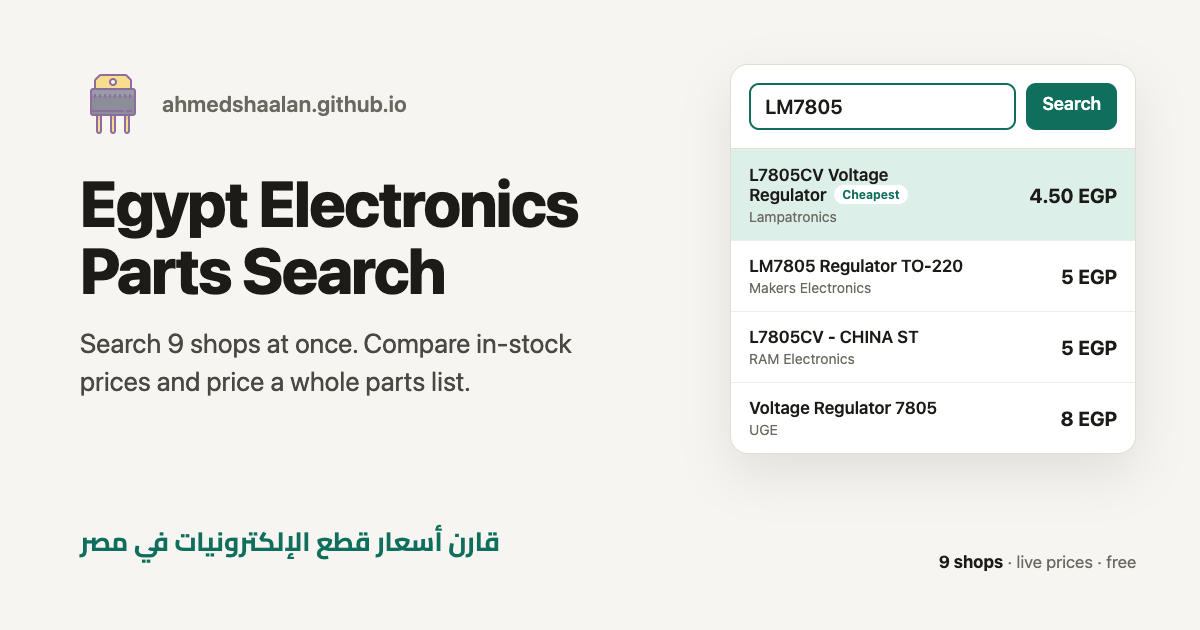
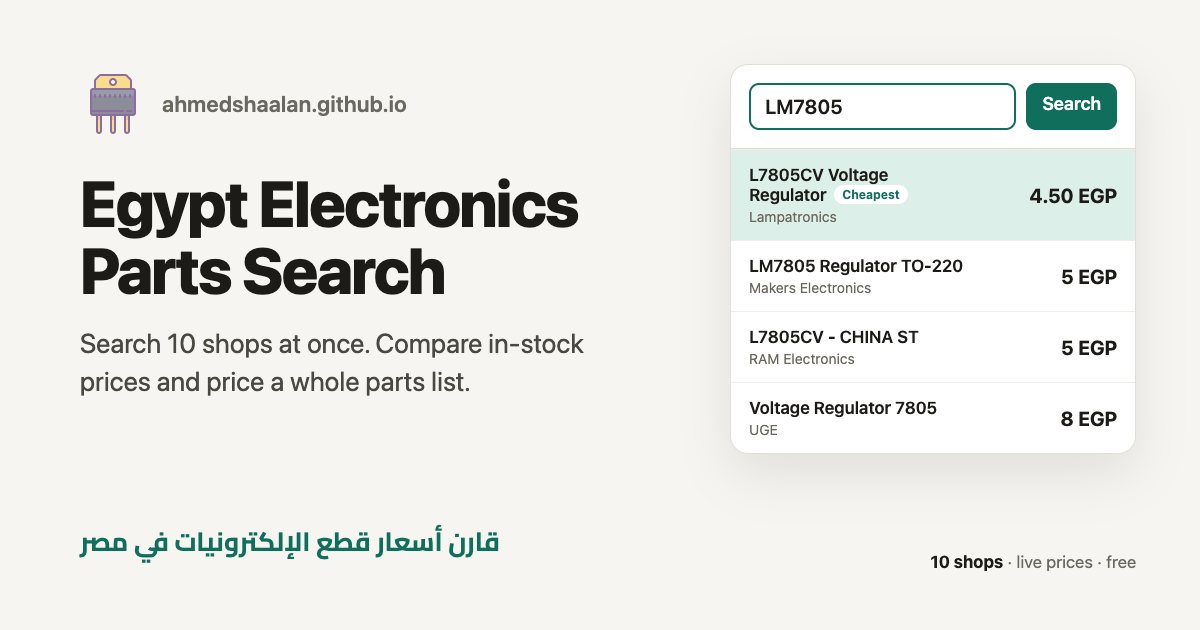
Add El Gammal Electronics, page metadata and Cloudflare Web Analytics
- Add El Gammal Electronics as the 10th shop. Its Supabase storefront
  API allows browsers directly, so it doesn't use the relay; stock
  comes from the shop's get_online_stock function.
- Add a meta description, canonical URL, Open Graph and Twitter card
  tags with a 1200x630 preview image, WebApplication structured data,
  and a short Arabic description on the search page.
- Add cookie-free Cloudflare Web Analytics and a Privacy section in
  the README.

Changed region(s): [[0.1233, 0.5127, 0.4933, 0.573], [0.7708, 0.8746, 0.8017, 0.9048]]

diff --git a/src/index.html b/src/index.html
@@ -5,7 +5,7 @@
 <meta charset="utf-8">
 <meta name="viewport" content="width=device-width, initial-scale=1">
 <title>Egypt Electronics Parts Search · Compare part prices across Egyptian shops</title>
-<meta name="description" content="Search 9 Egyptian electronics shops at once and compare in-stock prices for parts like LM7805 and ESP32. Price a whole parts list. Free, no sign-up.">
+<meta name="description" content="Search 10 Egyptian electronics shops at once and compare in-stock prices for parts like LM7805 and ESP32. Price a whole parts list. Free, no sign-up.">
 <link rel="canonical" href="https://ahmedshaalan.github.io/Egypt-Electronics-Parts-Search/">
 <link rel="icon" type="image/png" href="icon.png">
 <link rel="apple-touch-icon" href="icon.png">
@@ -16,7 +16,7 @@
 <meta property="og:type" content="website">
 <meta property="og:site_name" content="Egypt Electronics Parts Search">
 <meta property="og:title" content="Egypt Electronics Parts Search">
-<meta property="og:description" content="Search 9 Egyptian electronics shops at once and compare in-stock prices for parts like LM7805 and ESP32. Price a whole parts list. Free, no sign-up.">
+<meta property="og:description" content="Search 10 Egyptian electronics shops at once and compare in-stock prices for parts like LM7805 and ESP32. Price a whole parts list. Free, no sign-up.">
 <meta property="og:url" content="https://ahmedshaalan.github.io/Egypt-Electronics-Parts-Search/">
 <meta property="og:image" content="https://ahmedshaalan.github.io/Egypt-Electronics-Parts-Search/og-image.png">
 <meta property="og:image:width" content="1200">
@@ -26,7 +26,7 @@
 <meta property="og:locale:alternate" content="ar_EG">
 <meta name="twitter:card" content="summary_large_image">
 <meta name="twitter:title" content="Egypt Electronics Parts Search">
-<meta name="twitter:description" content="Search 9 Egyptian electronics shops at once and compare in-stock prices for parts like LM7805 and ESP32. Price a whole parts list. Free, no sign-up.">
+<meta name="twitter:description" content="Search 10 Egyptian electronics shops at once and compare in-stock prices for parts like LM7805 and ESP32. Price a whole parts list. Free, no sign-up.">
 <meta name="twitter:image" content="https://ahmedshaalan.github.io/Egypt-Electronics-Parts-Search/og-image.png">
 
 <!-- structured data for search engines -->
@@ -37,7 +37,7 @@
   "name": "Egypt Electronics Parts Search",
   "alternateName": "بحث قطع الإلكترونيات في مصر",
   "url": "https://ahmedshaalan.github.io/Egypt-Electronics-Parts-Search/",
-  "description": "Search 9 Egyptian electronics shops at once and compare in-stock prices for parts like LM7805 and ESP32. Price a whole parts list. Free, no sign-up.",
+  "description": "Search 10 Egyptian electronics shops at once and compare in-stock prices for parts like LM7805 and ESP32. Price a whole parts list. Free, no sign-up.",
   "applicationCategory": "ShoppingApplication",
   "operatingSystem": "Any",
   "browserRequirements": "Requires JavaScript",
@@ -256,7 +256,7 @@
       <button class="btn primary" type="submit">Search</button>
     </form>
     <p class="hint" id="shops-hint">Searches all shops at once. Out-of-stock items are hidden. Saved items stay in this browser.</p>
-    <p class="hint" lang="ar" dir="rtl">ابحث عن قطع الإلكترونيات وقارن أسعارها في ٩ متاجر مصرية مرة واحدة: رام، ميكرز، فيوتشر، UGE وغيرها.</p>
+    <p class="hint" lang="ar" dir="rtl">ابحث عن قطع الإلكترونيات وقارن أسعارها في ١٠ متاجر مصرية مرة واحدة: رام، ميكرز، فيوتشر، الجمل وغيرها.</p>
     <div id="search-out"></div>
   </section>
 
@@ -707,5 +707,7 @@ savedKeys = new Set(saved.items.map(key));
 updateSavedCount(saved.items.length);
 warmUp();
 </script>
+<!-- Cloudflare Web Analytics: page views only, no cookies -->
+<script type="module" src="https://static.cloudflareinsights.com/beacon.min.js" data-cf-beacon='{"token": "682b699925714d4993f77f2d490389f7"}'></script>
 </body>
 </html>

diff --git a/src/js/shops.js b/src/js/shops.js
@@ -339,6 +339,97 @@ class LampatronicsShop extends Shop {
   }
 }
 
+class ElGammalShop extends Shop {
+  // Lovable storefront backed by Supabase. Its database API allows browsers directly (CORS),
+  // using the public "anon" key the storefront itself ships with.
+  platform = "Supabase";
+  static API = "https://lackyfaornknmawcyldv.supabase.co/rest/v1";
+  static ANON_KEY =
+    "eyJhbGciOiJIUzI1NiIsInR5cCI6IkpXVCJ9.eyJpc3MiOiJzdXBhYmFzZSIsInJlZiI6ImxhY2t5ZmFvcm5rbm1hd2N5bGR2Iiwicm9sZSI6ImFub24iLCJpYXQiOjE3NzcwNjQyMDQsImV4cCI6MjA5MjY0MDIwNH0.Vdmae-sT-zW_lTUbKznYKXlRw1rzI7I-8A3toSWdhzY";
+
+  constructor(...args) {
+    super(...args);
+    this.limit = limiter(6);
+    this.stock = new Map();
+  }
+
+  api(path, { method = "GET", body, signal } = {}) {
+    const key = ElGammalShop.ANON_KEY;
+    return fetch(`${ElGammalShop.API}/${path}`, {
+      method,
+      body,
+      signal,
+      headers: { apikey: key, authorization: `Bearer ${key}`, "content-type": "application/json" },
+    });
+  }
+
+  product(d) {
+    return {
+      shop: this.key,
+      ref: d.id,
+      // names start with an internal code ("XX629-ESP32 30Pin ..."), which isn't useful to shoppers
+      name: cleanName(d.name).replace(/^XX\d+\s*-?\s*/i, ""),
+      price: Number(d.user_price || 0),
+      url: `${this.base}/p/${d.slug}`,
+      image: d.image_url || null,
+      in_stock: true,
+      old_price: null,
+    };
+  }
+
+  async onlineStock(id, signal, fresh = false) {
+    const hit = this.stock.get(id);
+    if (hit && !fresh && Date.now() < hit.expires) return hit.quantity;
+    const r = await this.limit(async () =>
+      ok(await this.api("rpc/get_online_stock", { method: "POST", body: JSON.stringify({ _product_id: id }), signal })),
+    );
+    const quantity = Number(await r.json()) || 0;
+    this.stock.set(id, { expires: Date.now() + HOUR, quantity });
+    return quantity;
+  }
+
+  async search(query, signal) {
+    // same filters as the shop's own search page; commas and parentheses would break the filter syntax
+    const q = query.replace(/[,()*]/g, " ").trim();
+    const params = new URLSearchParams({
+      select: "id,name,slug,user_price,image_url",
+      is_active: "eq.true",
+      is_visible: "eq.true",
+      is_online: "eq.true",
+      or: `(name.ilike.*${q}*,barcode.ilike.*${q}*,tags.ilike.*${q}*)`,
+      limit: "200",
+    });
+    const r = await ok(await this.api(`products?${params}`, { signal }));
+    const candidates = (await r.json()).map((d) => this.product(d)).filter((p) => p.price > 0 && score(query, p.name) >= WEAK);
+    const checked = await Promise.all(
+      candidates.map(async (p) => {
+        try {
+          p.in_stock = (await this.onlineStock(p.ref, signal)) > 0;
+          return p;
+        } catch (err) {
+          if (signal?.aborted) throw err;
+          return null;
+        }
+      }),
+    );
+    return checked.filter((p) => p && p.in_stock);
+  }
+
+  async check(ref, signal) {
+    const params = new URLSearchParams({
+      select: "id,name,slug,user_price,image_url",
+      id: `eq.${ref}`,
+      is_active: "eq.true",
+      is_visible: "eq.true",
+      is_online: "eq.true",
+    });
+    const rows = await (await ok(await this.api(`products?${params}`, { signal }))).json();
+    if (!rows.length) return null;
+    const p = this.product(rows[0]);
+    return { price: p.price, in_stock: (await this.onlineStock(ref, signal, true)) > 0 };
+  }
+}
+
 export const SHOPS = [
   new OdooShop("ram", "RAM Electronics", "https://www.ram-e-shop.com"),
   new WooShop("makers", "Makers Electronics", "https://makerselectronics.com"),
@@ -349,5 +440,6 @@ export const SHOPS = [
   new LampatronicsShop("lampatronics", "Lampatronics", "https://lampatronics.com"),
   new WooShop("uge", "UGE", "https://uge-one.com"),
   new WooShop("ampere", "Ampere Electronics", "https://ampere-electronics.com"),
+  new ElGammalShop("elgammal", "El Gammal Electronics", "https://el-gammal.com"),
 ];
 export const SHOPS_BY_KEY = Object.fromEntries(SHOPS.map((s) => [s.key, s]));

diff --git a/README.md b/README.md
@@ -9,7 +9,7 @@ Find a part, see every in-stock price side by side, and price a whole parts list
 
 ### [**→ Open the site**](https://ahmedshaalan.github.io/Egypt-Electronics-Parts-Search/)
 
-`9 shops` · `live prices` · `out-of-stock hidden` · `works on your phone` · `free, no sign-up` · [`AGPL-3.0 license`](LICENSE)
+`10 shops` · `live prices` · `out-of-stock hidden` · `works on your phone` · `free, no sign-up` · [`AGPL-3.0 license`](LICENSE)
 
 <img src=".github/screenshots/search.png" alt="Search results for LM7805 across nine Egyptian shops, sorted by match and price" width="760">
 
@@ -26,7 +26,7 @@ Egypt Electronics Parts Search asks every shop at once, recognizes those names a
 ## Features
 
 **🔍 Search every shop at once**
-- Queries all 9 shops at the same time and merges the results into one list
+- Queries all 10 shops at the same time and merges the results into one list
 - Hides out-of-stock items automatically
 - Shows sale prices next to the original price, and the per-piece price for packs ("(10pcs)")
 - Sort by best match, cheapest, or cheapest per piece, or filter to one shop
@@ -113,15 +113,16 @@ Saved items live in your browser's storage, so they're private to that browser a
 | [Lampatronics](https://lampatronics.com) | Custom (Laravel + Vue) | The site's own product API |
 | [UGE](https://uge-one.com) | WooCommerce | Store API |
 | [Ampere Electronics](https://ampere-electronics.com) | WooCommerce | Store API |
+| [El Gammal Electronics](https://el-gammal.com) | Supabase (Lovable) | The shop's public database API, plus a stock lookup per product |
 
 ## How it works
 
 The whole app runs in your browser. It's a static site on GitHub Pages, with no server of its own.
 
-The catch: browsers only let a website read another site's data if that site allows it (CORS). The two Shopify shops do; the other seven don't. For those, requests go through a tiny **relay** on Cloudflare Workers that fetches the shop's page and hands it back.
+The catch: browsers only let a website read another site's data if that site allows it (CORS). The two Shopify shops and El Gammal do; the other seven don't. For those, requests go through a tiny **relay** on Cloudflare Workers that fetches the shop's page and hands it back.
 
 ```
-                                ┌──────────── direct ────────────► Future, DevBoards  (Shopify, CORS allowed)
+                                ┌──────────── direct ────────────► Future, DevBoards, El Gammal  (CORS allowed)
  GitHub Pages site ─────────────┤
  (all search logic, in JS)      └─► Cloudflare Worker relay ─────► RAM, Makers, Micro Ohm, Most,
                                     (allow-listed shops only,      UGE, Ampere, Lampatronics
@@ -138,7 +139,7 @@ The catch: browsers only let a website read another site's data if that site all
 
 [`worker/src/index.js`](worker/src/index.js) is about 100 lines and deliberately dumb: all parsing and matching happen in the browser. It:
 
-- only fetches from the 9 shop domains, so it can't be used as an open proxy
+- only fetches from the shop domains it knows, so it can't be used as an open proxy
 - only answers requests from the site's own origin (plus `localhost` for development)
 - forwards just three headers (`x-api-key`, `content-type`, `accept`) and caps request bodies
 - caches successful shop responses for an hour at Cloudflare's edge
@@ -164,6 +165,7 @@ In a parts list, the default pick for each line is the **cheapest product within
 - **WooCommerce:** `GET /wp-json/wc/store/v1/products?search=…&stock_status[]=instock`, up to 60 results per query. Prices arrive in piasters and are converted to EGP.
 - **Shopify:** the suggest endpoint caps at 10 results, so the app loads the whole catalog from `products.json` (about 1,300 products, under 1 MB compressed), keeps it for an hour, and searches it locally. Loading starts as soon as the page opens, so the first search is fast.
 - **Odoo (RAM):** parses up to 3 pages of `/shop?search=…`, then calls `get_combination_info` per product for the stock count. RAM slows down under load, so it gets at most 5 requests at a time, and stock lookups are cached for an hour.
+- **El Gammal (Supabase):** the storefront reads products straight from its Supabase database with a public, read-only "anon" key, and so does this app: the same product filters as the shop's own search page, then the shop's `get_online_stock` function per matching product (at most 6 at a time, cached for an hour). The internal code at the start of product names ("XX629-") is dropped. If the shop ever changes that key, it shows as `failed` until the key in `src/js/shops.js` is updated.
 - **Lampatronics:** the storefront is a JavaScript app backed by `/api/frontend/product`. The API requires the key the site embeds in every page. The app reads that key from the home page and re-reads it if it's ever rejected. Up to 3 pages of 50 results.
 
 ## Project structure
@@ -268,6 +270,12 @@ class MyShop extends Shop {
 | Aliases | `ALIASES` in `src/js/matching.js` | 16x2 ↔ 1602, … |
 | Sites allowed to use the relay | `ALLOWED_ORIGINS` in `worker/wrangler.toml` | the GitHub Pages origin |
 | Relay cache | `CACHE_SECONDS` in `worker/src/index.js` | 1 h |
+
+## Privacy
+
+- **No accounts, no cookies.** Saved items and lists stay in your own browser.
+- **Anonymous visit counts.** The site uses [Cloudflare Web Analytics](https://www.cloudflare.com/web-analytics/), which counts page views without cookies or tracking individual visitors. What you search for isn't sent to it.
+- **Searches go to the shops.** To get prices, your browser asks each shop directly, or through the relay for shops that need it. The relay's code doesn't store or log requests.
 
 ## Limitations
 
